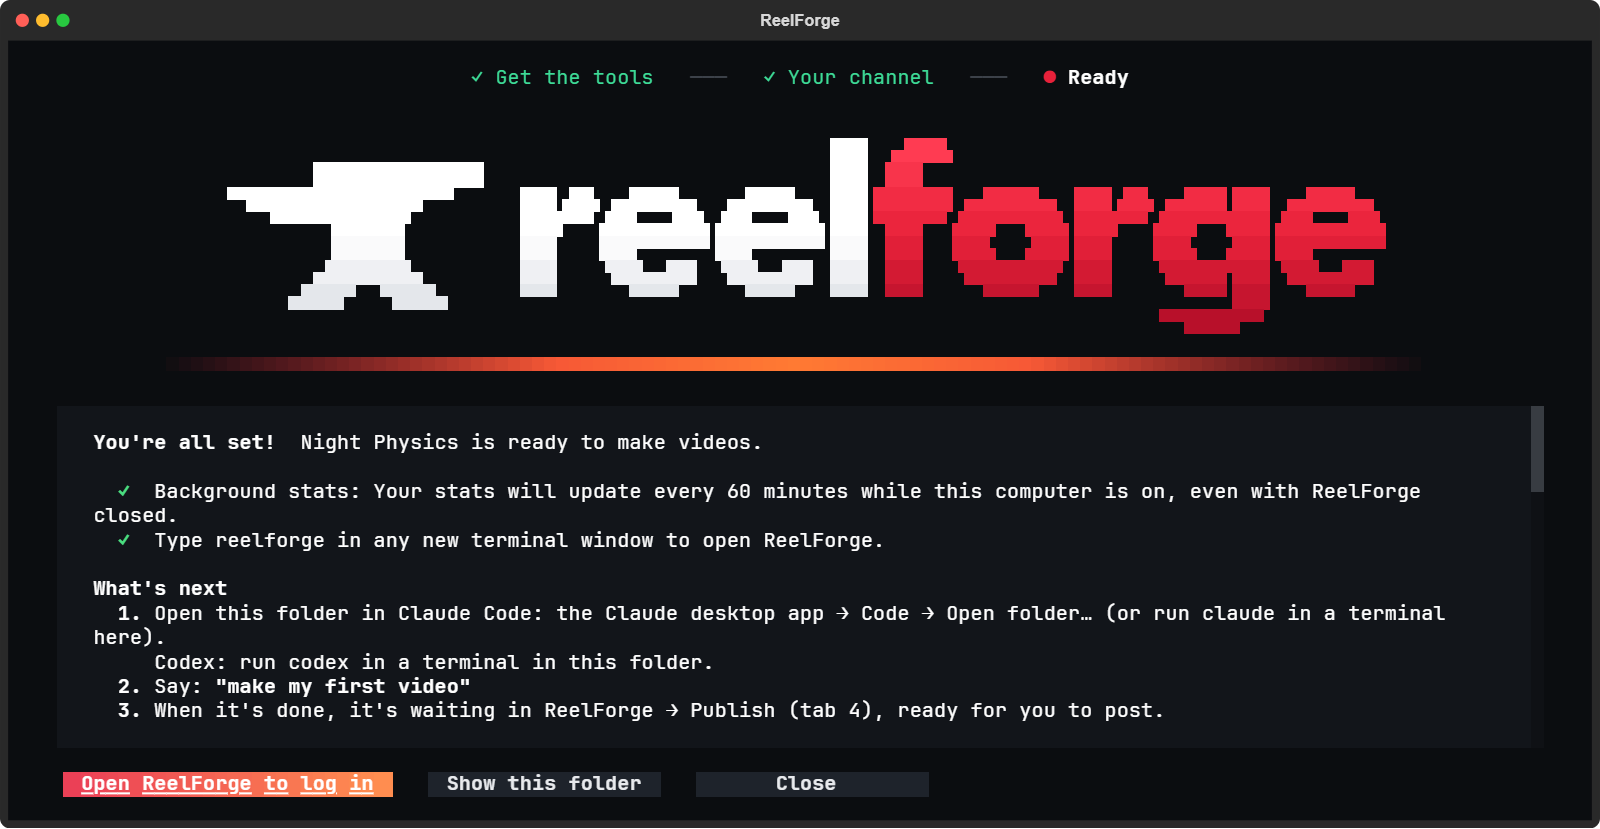
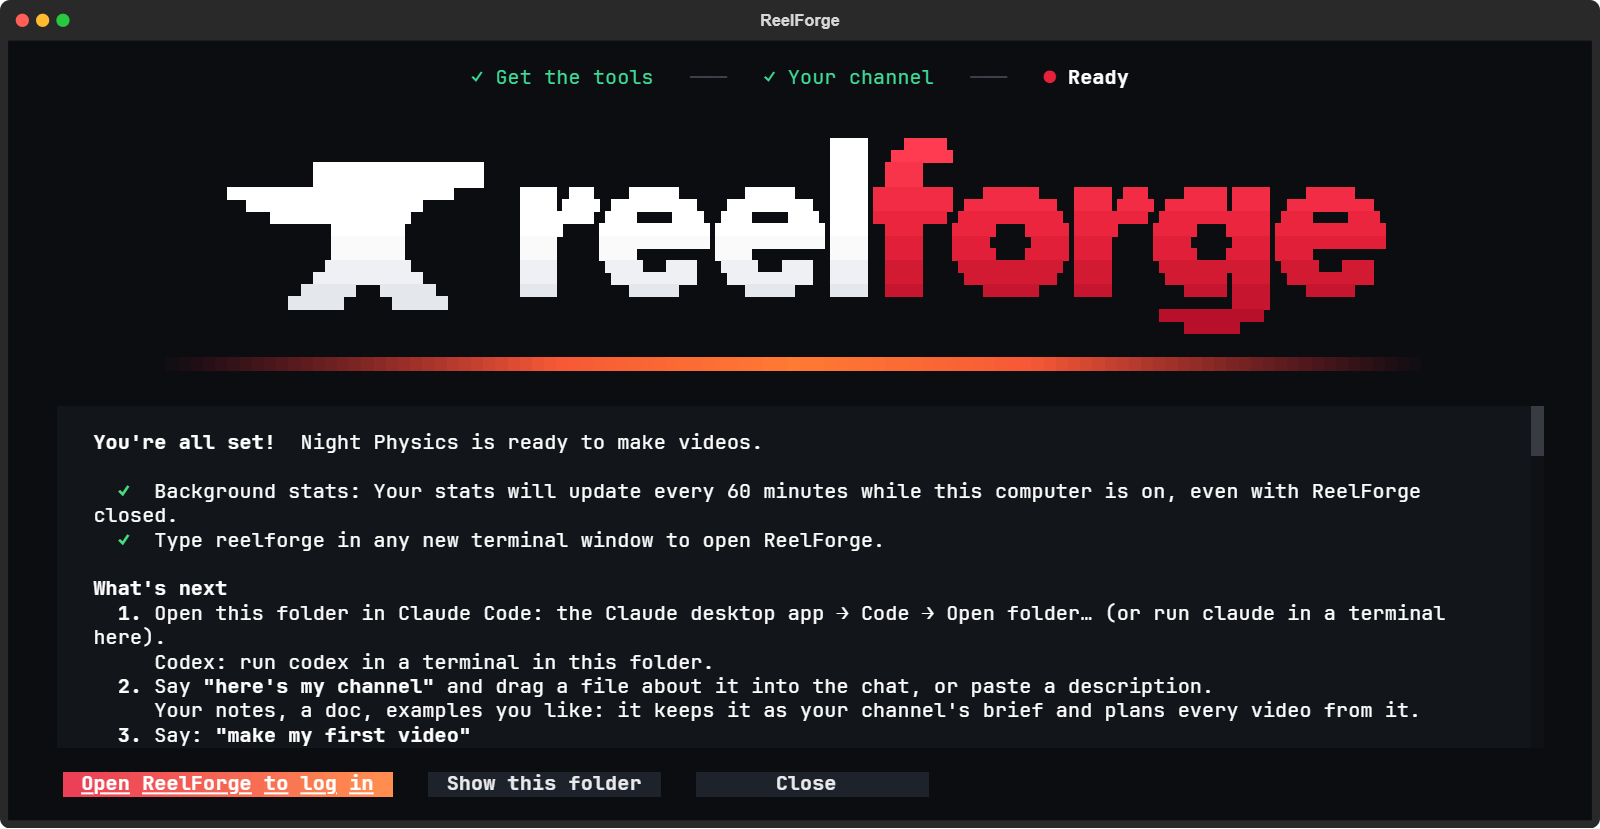
README: the redesigned window, and screenshots retaken on today's main
"Inside ReelForge" says how the window looks and moves (each platform's own colour, numbers that count up,
charts that grow in, tabs that slide), what the bar along the bottom shows, the keys (r, p and ? as well), and
that a small window stacks and scrolls; the Overview section describes its tiles and charts. Every screenshot
is retaken on top of the channel brief and private-window sign-ups (SOURCES.txt with them).

Changed region(s): [[0.0938, 0.8142, 0.875, 0.9047], [0.9375, 0.5428, 0.9688, 0.6031]]

diff --git a/README.md b/README.md
@@ -114,14 +114,26 @@ channel change.
 ## Inside ReelForge
 
 ReelForge has six tabs. Open one straight from a terminal with `reelforge 1` to `reelforge 6`, or by name, like
-`reelforge publish`. Everything works with the mouse or the keyboard: **1**-**6** switch tabs, **Tab** moves between
-buttons and fields, **Enter** presses, **Esc** closes. ReelForge's window and its first-time setup are built
-with [OpenTUI](https://github.com/anomalyco/opentui).
+`reelforge publish`. Everything works with the mouse or the keyboard: **1**-**6** switch tabs, **r** refreshes your
+stats, **p** opens your profiles, **?** the help, **Tab** moves between buttons and fields, **Enter** presses and
+**Esc** closes.
+
+The window is calm and dark, so your numbers stand out: each platform keeps its own colour (TikTok cyan, YouTube red,
+Instagram purple, X white), green and red show what went up and down, and amber marks where each video went up.
+Numbers count up and charts grow in as they arrive, and the tabs slide. The bar along the bottom shows each platform
+you've connected (red when its last read failed: click it for Accounts), when your stats were last read and any read
+under way. It fits any window: in a small one the Overview's panels stack and scroll instead of squeezing.
+ReelForge's window and its first-time setup are built with [OpenTUI](https://github.com/anomalyco/opentui), and look
+sharpest in Windows Terminal.
 
 ### Overview
 
-Followers, views and likes on each platform you've connected, hour by hour, with a mark where each video went up,
-plus your top videos (with their views 12 hours in) and how the latest one is doing. The bell at the top right
+A tile for each platform you've connected, and one for them all: your followers in big numbers, today's change,
+your views and likes, and your views hour by hour (on All platforms, each platform's share). Under them, today's
+badges, then the views, followers and likes you gained each hour (or each few hours, or day: pick 24H, 48H, 7D or
+30D), stacked by platform, with a mark where each video went up. Point at a bar to read its numbers, and click a
+platform's name to hide it. Beside the charts are your top videos (with their views 12 hours in) and how the latest
+one is doing. The bell at the top right
 collects milestones, new videos ready to post and updates, and shows how many are new on its shoulder. Click a
 notification to see what it's about: a video that's taking off opens on the Videos tab, highlighted, and a finished
 video is picked out on Publish. The × beside a notification deletes it, and Clear all deletes them all.
